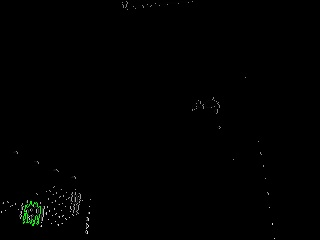
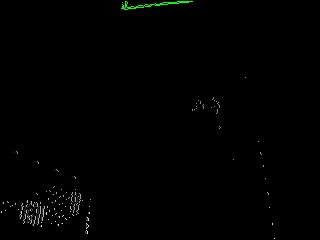
add math to robotics cv

Changed region(s): [[0.375, 0.0, 0.5938, 0.0583], [0.0625, 0.8167, 0.1562, 0.9625]]

diff --git a/Robticscv.py b/Robticscv.py
@@ -3,9 +3,9 @@ import cv2 as cv
 import numpy as np
 import os
 
-
+array = []
 # Read image
-
+locate = 0
 for s in os.listdir("files"):
     im = cv.imread("files/"+s, cv.IMREAD_COLOR)
 
@@ -21,13 +21,18 @@ for s in os.listdir("files"):
     lan = 0
     thing = 0
     for c in contours:
-        if(cv.contourArea(c)>0 and (((cv.contourArea(cv.convexHull(c))/cv.contourArea(c))*0.25)+((cv.contourArea(cv.convexHull(c)))*0.75))>=lan):
-            lan = (((cv.contourArea(cv.convexHull(c))/cv.contourArea(c))*0.25)+((cv.contourArea(cv.convexHull(c)))*0.75))
+        if(cv.contourArea(c)>0 and (((cv.contourArea(cv.convexHull(c))/cv.contourArea(c))*50)+((cv.contourArea(cv.convexHull(c)))))>=lan):
+            lan = (((cv.contourArea(cv.convexHull(c))/cv.contourArea(c))*50)+((cv.contourArea(cv.convexHull(c)))))
             thing = c
 
     contours = [thing]
 
+    #print cv.contourArea(cv.convexHull(thing))
+    #print cv.contourArea(cv.convexHull(thing))/cv.contourArea(thing)*50
 
     im4 = cv.cvtColor(im3, cv.COLOR_GRAY2BGR)
     cv.drawContours(im4,contours,-1,(0,255,0),1)
     cv.imwrite("filesa/"+s, im4)
+    #cv.imshow('title', im4)
+    #cv.waitKey(0)
+    #cv.destroyAllWindows()
